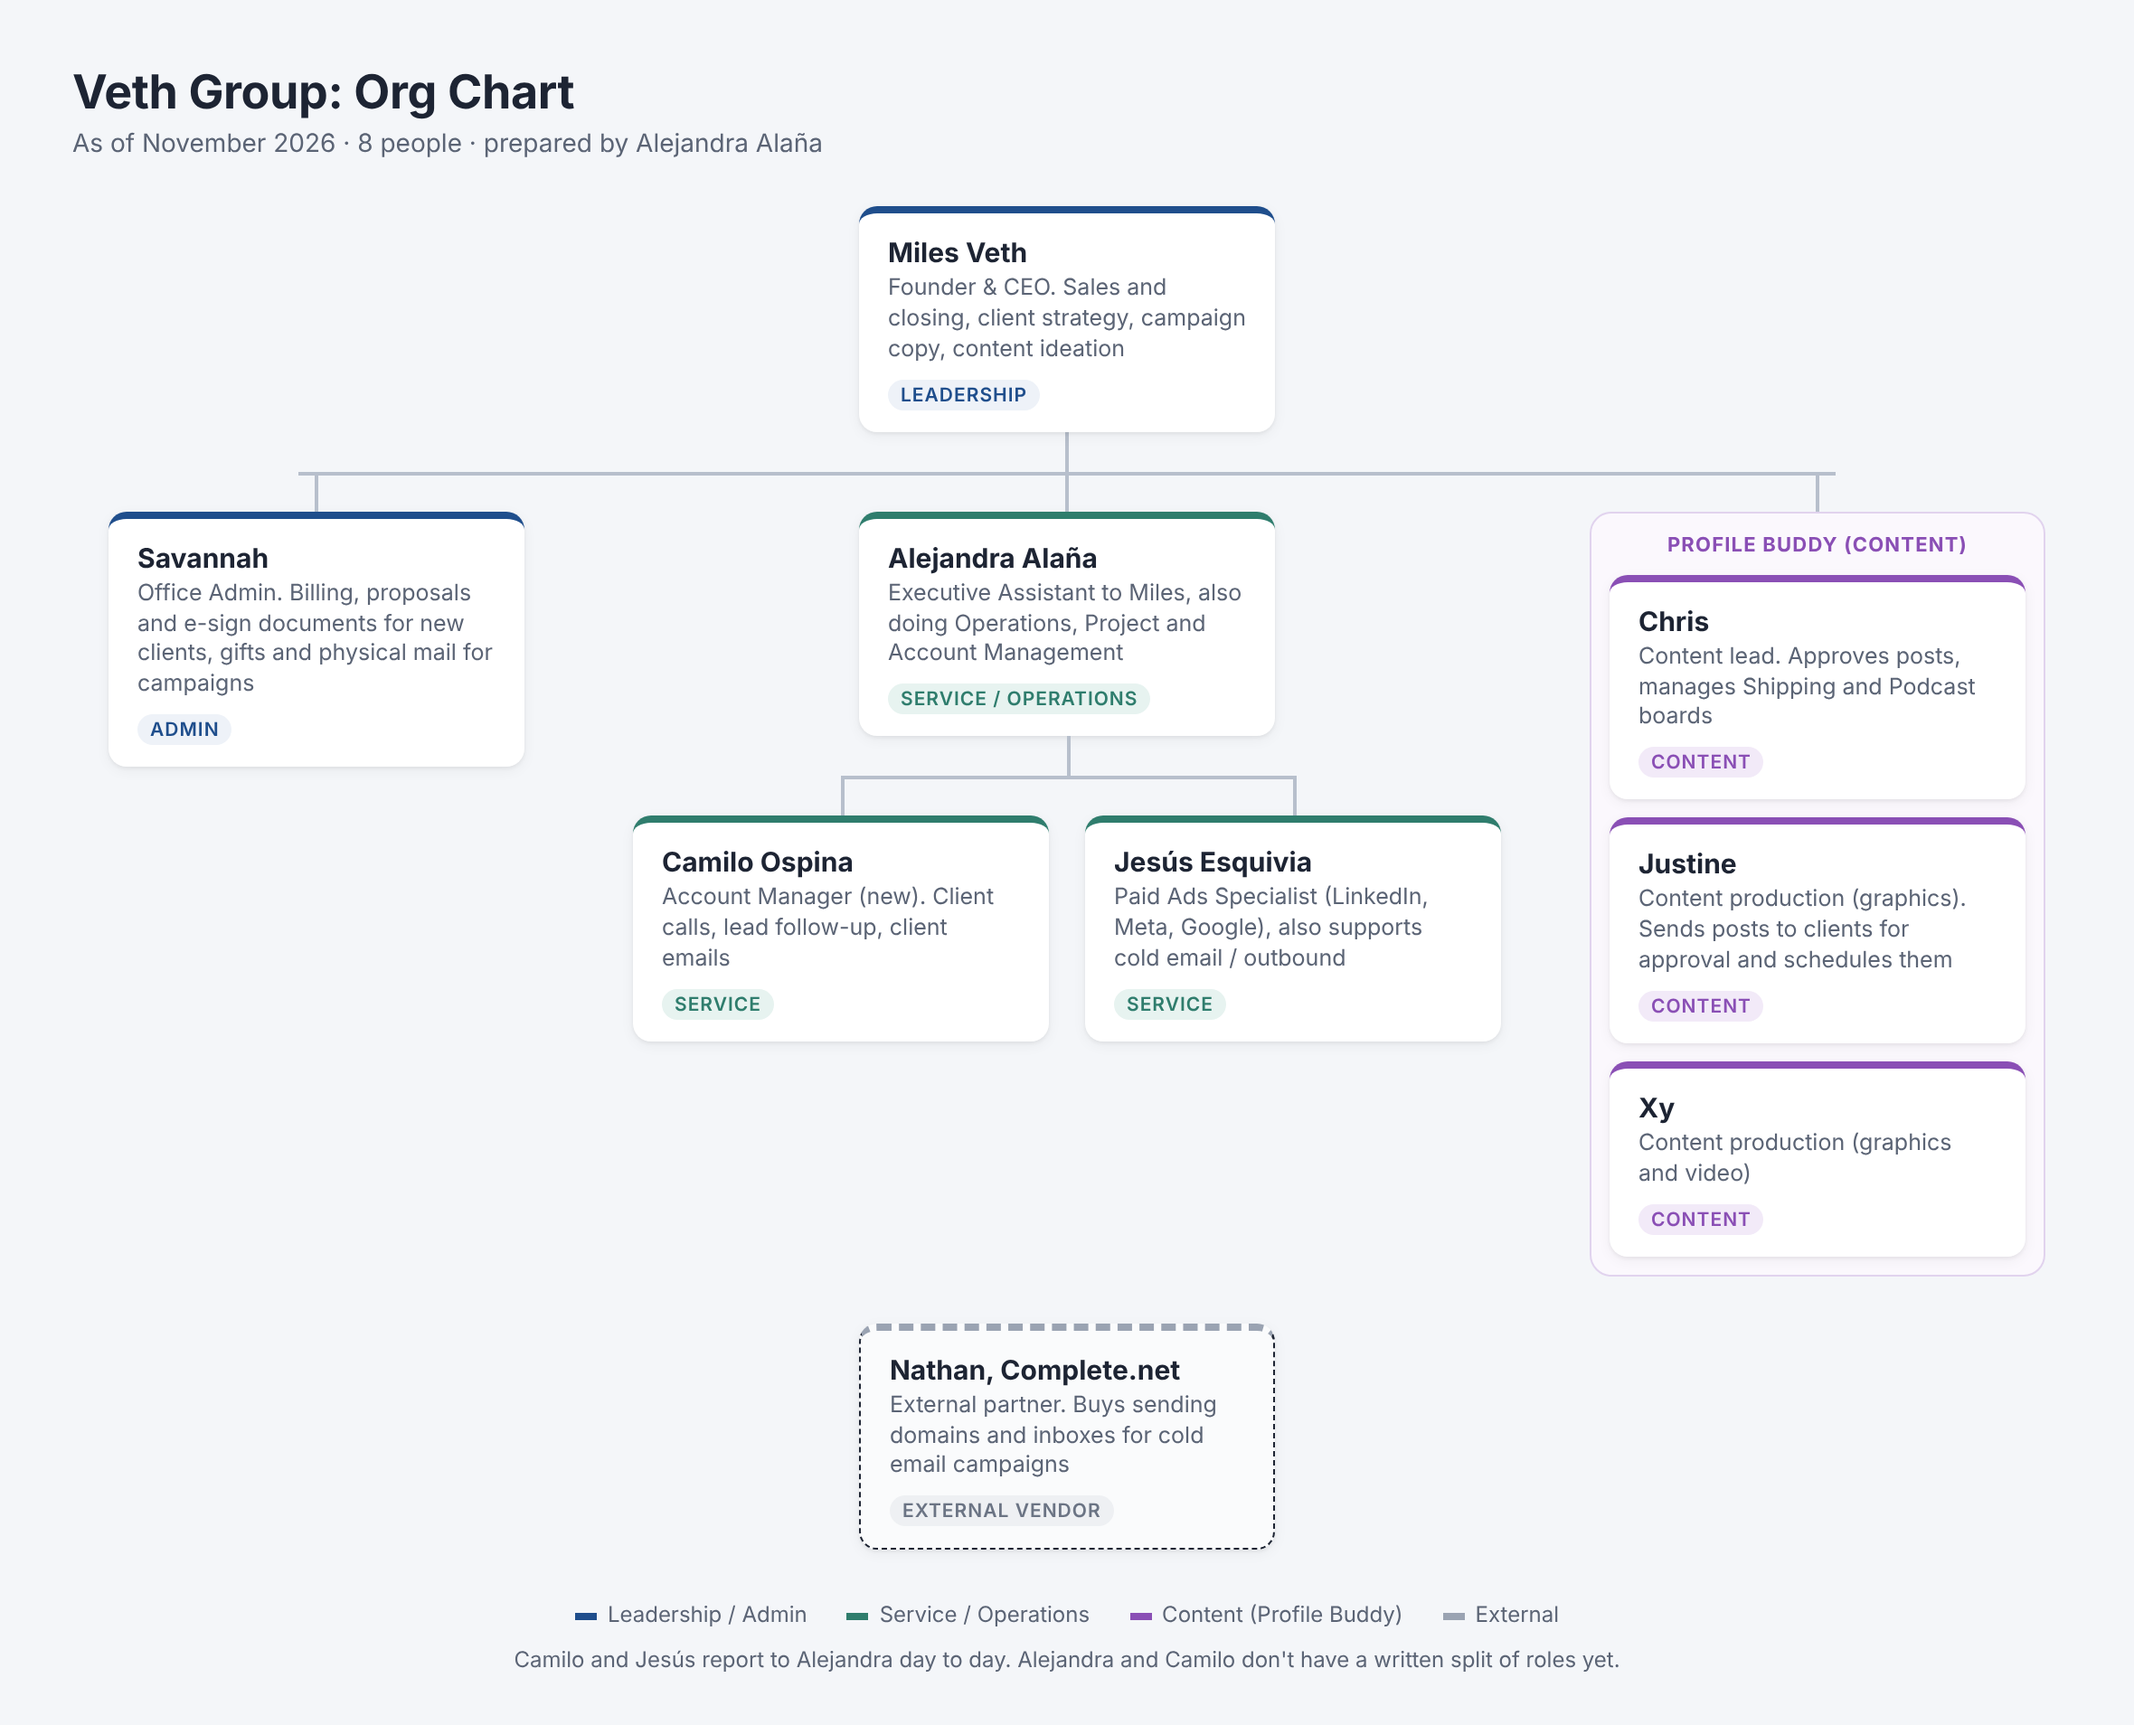
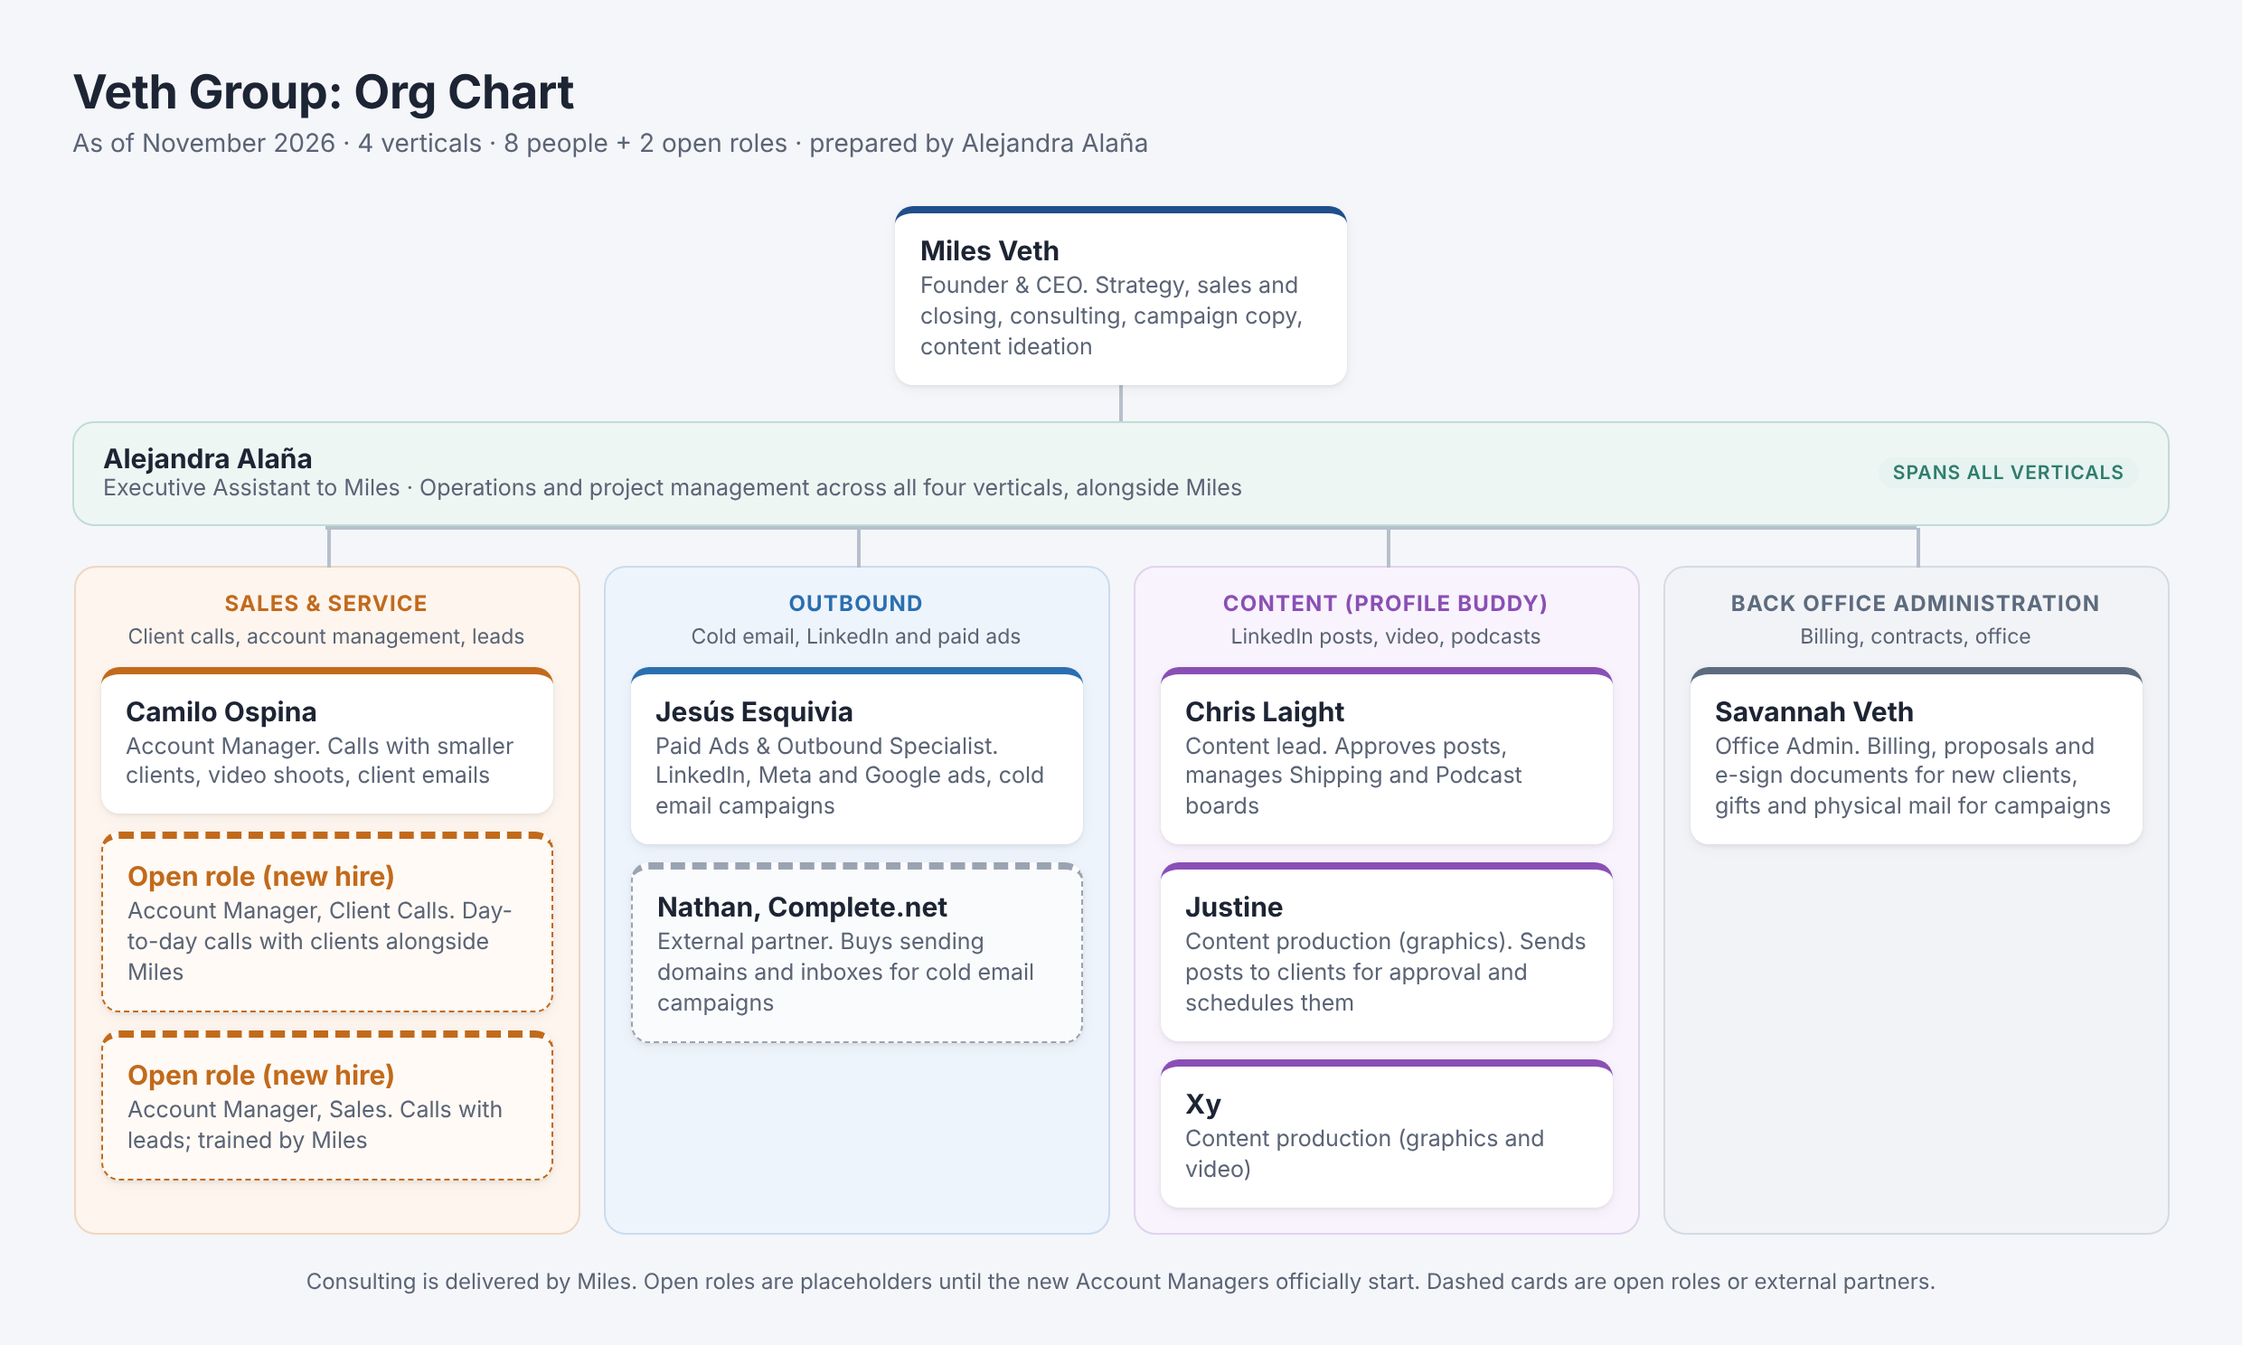
Org chart in four verticals with open roles; RACI for client account management
Claude-Session: https://claude.ai/code/session_01W5gLZdTMe98Ur3aNYbbRVd

diff --git a/coaching-desiree/org_chart.html b/coaching-desiree/org_chart.html
@@ -6,100 +6,99 @@
 <title>Veth Group Org Chart</title>
 <style>
   :root { --ink:#1d2433; --muted:#5b6475; --line:#b7bfcc; --card:#ffffff; --bg:#f4f6f9;
-          --lead:#1f4e8c; --ops:#2f7d6d; --content:#8a4fb5; --ext:#9aa3b2; }
+          --lead:#1f4e8c; --ops:#2f7d6d; --sales:#c26a1b; --out:#2a6fb0; --content:#8a4fb5; --admin:#5d6b7e; --ext:#9aa3b2; }
   * { box-sizing:border-box; }
-  body { margin:0; background:var(--bg); font-family: "Inter", -apple-system, "Segoe UI", Roboto, sans-serif; color:var(--ink); }
-  .wrap { width:1180px; padding:36px 40px 28px; }
+  body { margin:0; background:var(--bg); font-family:"Inter", -apple-system, "Segoe UI", Roboto, sans-serif; color:var(--ink); }
+  .wrap { width:1240px; padding:36px 40px 28px; }
   h1 { margin:0; font-size:26px; letter-spacing:-.2px; }
   .sub { color:var(--muted); font-size:14px; margin:4px 0 26px; }
-  .row { display:flex; justify-content:center; gap:28px; position:relative; }
-  .card { background:var(--card); border-radius:10px; padding:12px 16px; width:230px;
+  .center { display:flex; justify-content:center; }
+  .card { background:var(--card); border-radius:10px; padding:11px 14px; width:250px;
           box-shadow:0 1px 2px rgba(0,0,0,.06), 0 2px 8px rgba(0,0,0,.05); border-top:4px solid var(--lead); }
   .card .n { font-weight:700; font-size:15px; }
   .card .r { font-size:12.5px; color:var(--muted); margin-top:3px; line-height:1.35; }
-  .ops { border-top-color:var(--ops); }
-  .content { border-top-color:var(--content); }
-  .ext { border-top-color:var(--ext); border-style:dashed; border-width:1px 1px 1px 1px; border-top:4px dashed var(--ext); background:#fafbfc; }
+  .v { width:2px; height:20px; background:var(--line); margin:0 auto; }
+  .ops-bar { width:1160px; margin:0 auto; background:#eef6f4; border:1.5px solid #bfdcd5; border-radius:12px;
+             padding:10px 16px; display:flex; align-items:center; gap:16px; }
+  .ops-bar .n { font-weight:700; font-size:15px; }
+  .ops-bar .r { font-size:12.5px; color:var(--muted); line-height:1.35; }
+  .ops-bar .tag { margin-left:auto; }
   .tag { display:inline-block; font-size:10.5px; font-weight:600; text-transform:uppercase; letter-spacing:.5px;
-         padding:2px 7px; border-radius:20px; margin-top:7px; background:#eef2f8; color:var(--lead); }
-  .ops .tag { background:#e7f3f0; color:var(--ops); }
-  .content .tag { background:#f2eaf8; color:var(--content); }
-  .ext .tag { background:#eef0f3; color:#6b7484; }
-  .v { width:2px; height:22px; background:var(--line); margin:0 auto; }
-  .branches { display:grid; grid-template-columns: 250px 520px 250px; gap:30px; justify-content:center; position:relative; padding-top:22px; }
-  .branches::before { content:""; position:absolute; top:0; left:125px; right:125px; height:2px; background:var(--line); }
-  .col { display:flex; flex-direction:column; align-items:center; position:relative; }
-  .col::before { content:""; position:absolute; top:-22px; width:2px; height:22px; background:var(--line); }
-  .group { border:1.5px solid #e1d3ee; background:#fbf8fd; border-radius:12px; padding:10px; display:flex; flex-direction:column; gap:10px; align-items:center; }
-  .group .gl { font-size:11px; font-weight:700; color:var(--content); text-transform:uppercase; letter-spacing:.6px; }
-  .kids { display:flex; gap:20px; position:relative; padding-top:22px; margin-top:22px; }
-  .kids::after { content:""; position:absolute; top:-22px; left:50%; width:2px; height:22px; background:var(--line); }
-  .kids::before { content:""; position:absolute; top:0; left:115px; right:115px; height:2px; background:var(--line); }
-  .kids > .card { position:relative; }
-  .kids > .card::before { content:""; position:absolute; top:-26px; left:50%; width:2px; height:22px; background:var(--line); }
-  .legend { display:flex; gap:22px; margin-top:28px; font-size:12px; color:var(--muted); justify-content:center; }
-  .legend span::before { content:""; display:inline-block; width:12px; height:4px; margin-right:6px; vertical-align:middle; }
-  .l1::before { background:var(--lead); } .l2::before { background:var(--ops); } .l3::before { background:var(--content); } .l4::before { background:var(--ext); }
-  .note { margin-top:10px; font-size:12px; color:var(--muted); text-align:center; }
+         padding:2px 8px; border-radius:20px; background:#e7f3f0; color:var(--ops); white-space:nowrap; }
+  .cols { display:grid; grid-template-columns:repeat(4, 280px); gap:13px; justify-content:center; position:relative; padding-top:22px; }
+  .cols::before { content:""; position:absolute; top:0; left:140px; right:140px; height:2px; background:var(--line); }
+  .col { position:relative; border-radius:12px; padding:12px 14px 14px; display:flex; flex-direction:column; gap:10px; align-items:center; }
+  .col::before { content:""; position:absolute; top:-22px; left:50%; width:2px; height:22px; background:var(--line); }
+  .col .gl { font-size:12px; font-weight:700; text-transform:uppercase; letter-spacing:.6px; text-align:center; }
+  .col .gd { font-size:11.5px; color:var(--muted); text-align:center; margin-top:-6px; }
+  .sales { background:#fdf5ee; border:1.5px solid #f0d6bf; } .sales .gl { color:var(--sales); } .sales .card { border-top-color:var(--sales); }
+  .out { background:#eef4fb; border:1.5px solid #c9dcf0; } .out .gl { color:var(--out); } .out .card { border-top-color:var(--out); }
+  .content { background:#f8f3fc; border:1.5px solid #e1d3ee; } .content .gl { color:var(--content); } .content .card { border-top-color:var(--content); }
+  .admin { background:#f1f3f6; border:1.5px solid #d5dbe3; } .admin .gl { color:var(--admin); } .admin .card { border-top-color:var(--admin); }
+  .open { border-style:dashed !important; border-width:1.5px !important; border-color:var(--sales) !important; border-top-width:4px !important; background:#fffaf5; }
+  .open .n { color:var(--sales); }
+  .ext { border:1px dashed var(--ext) !important; border-top:4px dashed var(--ext) !important; background:#fafbfc; }
+  .note { margin-top:18px; font-size:12px; color:var(--muted); text-align:center; }
 </style>
 </head>
 <body>
 <div class="wrap">
   <h1>Veth Group: Org Chart</h1>
-  <div class="sub">As of November 2026 · 8 people · prepared by Alejandra Alaña</div>
+  <div class="sub">As of November 2026 · 4 verticals · 8 people + 2 open roles · prepared by Alejandra Alaña</div>
 
-  <div class="row">
+  <div class="center">
     <div class="card"><div class="n">Miles Veth</div>
-      <div class="r">Founder &amp; CEO. Sales and closing, client strategy, campaign copy, content ideation</div>
-      <span class="tag">Leadership</span></div>
+      <div class="r">Founder &amp; CEO. Strategy, sales and closing, consulting, campaign copy, content ideation</div></div>
   </div>
   <div class="v"></div>
 
-  <div class="branches">
-    <div class="col">
-      <div class="card"><div class="n">Savannah</div>
-        <div class="r">Office Admin. Billing, proposals and e-sign documents for new clients, gifts and physical mail for campaigns</div>
-        <span class="tag">Admin</span></div>
+  <div class="ops-bar">
+    <div><div class="n">Alejandra Alaña</div>
+      <div class="r">Executive Assistant to Miles · Operations and project management across all four verticals, alongside Miles</div></div>
+    <span class="tag">Spans all verticals</span>
+  </div>
+
+  <div class="cols">
+    <div class="col sales">
+      <div class="gl">Sales &amp; Service</div>
+      <div class="gd">Client calls, account management, leads</div>
+      <div class="card"><div class="n">Camilo Ospina</div>
+        <div class="r">Account Manager. Calls with smaller clients, video shoots, client emails</div></div>
+      <div class="card open"><div class="n">Open role (new hire)</div>
+        <div class="r">Account Manager, Client Calls. Day-to-day calls with clients alongside Miles</div></div>
+      <div class="card open"><div class="n">Open role (new hire)</div>
+        <div class="r">Account Manager, Sales. Calls with leads; trained by Miles</div></div>
     </div>
 
-    <div class="col">
-      <div class="card ops"><div class="n">Alejandra Alaña</div>
-        <div class="r">Executive Assistant to Miles, also doing Operations, Project and Account Management</div>
-        <span class="tag">Service / Operations</span></div>
-      <div class="kids">
-        <div class="card ops"><div class="n">Camilo Ospina</div>
-          <div class="r">Account Manager (new). Client calls, lead follow-up, client emails</div>
-          <span class="tag">Service</span></div>
-        <div class="card ops"><div class="n">Jesús Esquivia</div>
-          <div class="r">Paid Ads Specialist (LinkedIn, Meta, Google), also supports cold email / outbound</div>
-          <span class="tag">Service</span></div>
-      </div>
+    <div class="col out">
+      <div class="gl">Outbound</div>
+      <div class="gd">Cold email, LinkedIn and paid ads</div>
+      <div class="card"><div class="n">Jesús Esquivia</div>
+        <div class="r">Paid Ads &amp; Outbound Specialist. LinkedIn, Meta and Google ads, cold email campaigns</div></div>
+      <div class="card ext"><div class="n">Nathan, Complete.net</div>
+        <div class="r">External partner. Buys sending domains and inboxes for cold email campaigns</div></div>
     </div>
 
-    <div class="col">
-      <div class="group">
-        <div class="gl">Profile Buddy (Content)</div>
-        <div class="card content"><div class="n">Chris</div>
-          <div class="r">Content lead. Approves posts, manages Shipping and Podcast boards</div>
-          <span class="tag">Content</span></div>
-        <div class="card content"><div class="n">Justine</div>
-          <div class="r">Content production (graphics). Sends posts to clients for approval and schedules them</div>
-          <span class="tag">Content</span></div>
-        <div class="card content"><div class="n">Xy</div>
-          <div class="r">Content production (graphics and video)</div>
-          <span class="tag">Content</span></div>
-      </div>
+    <div class="col content">
+      <div class="gl">Content (Profile Buddy)</div>
+      <div class="gd">LinkedIn posts, video, podcasts</div>
+      <div class="card"><div class="n">Chris Laight</div>
+        <div class="r">Content lead. Approves posts, manages Shipping and Podcast boards</div></div>
+      <div class="card"><div class="n">Justine</div>
+        <div class="r">Content production (graphics). Sends posts to clients for approval and schedules them</div></div>
+      <div class="card"><div class="n">Xy</div>
+        <div class="r">Content production (graphics and video)</div></div>
+    </div>
+
+    <div class="col admin">
+      <div class="gl">Back Office Administration</div>
+      <div class="gd">Billing, contracts, office</div>
+      <div class="card"><div class="n">Savannah Veth</div>
+        <div class="r">Office Admin. Billing, proposals and e-sign documents for new clients, gifts and physical mail for campaigns</div></div>
     </div>
   </div>
 
-  <div class="row" style="margin-top:26px">
-    <div class="card ext"><div class="n">Nathan, Complete.net</div>
-      <div class="r">External partner. Buys sending domains and inboxes for cold email campaigns</div>
-      <span class="tag">External vendor</span></div>
-  </div>
-
-  <div class="legend"><span class="l1">Leadership / Admin</span><span class="l2">Service / Operations</span><span class="l3">Content (Profile Buddy)</span><span class="l4">External</span></div>
-  <div class="note">Camilo and Jesús report to Alejandra day to day. Alejandra and Camilo don't have a written split of roles yet.</div>
+  <div class="note">Consulting is delivered by Miles. Open roles are placeholders until the new Account Managers officially start. Dashed cards are open roles or external partners.</div>
 </div>
 </body>
 </html>
